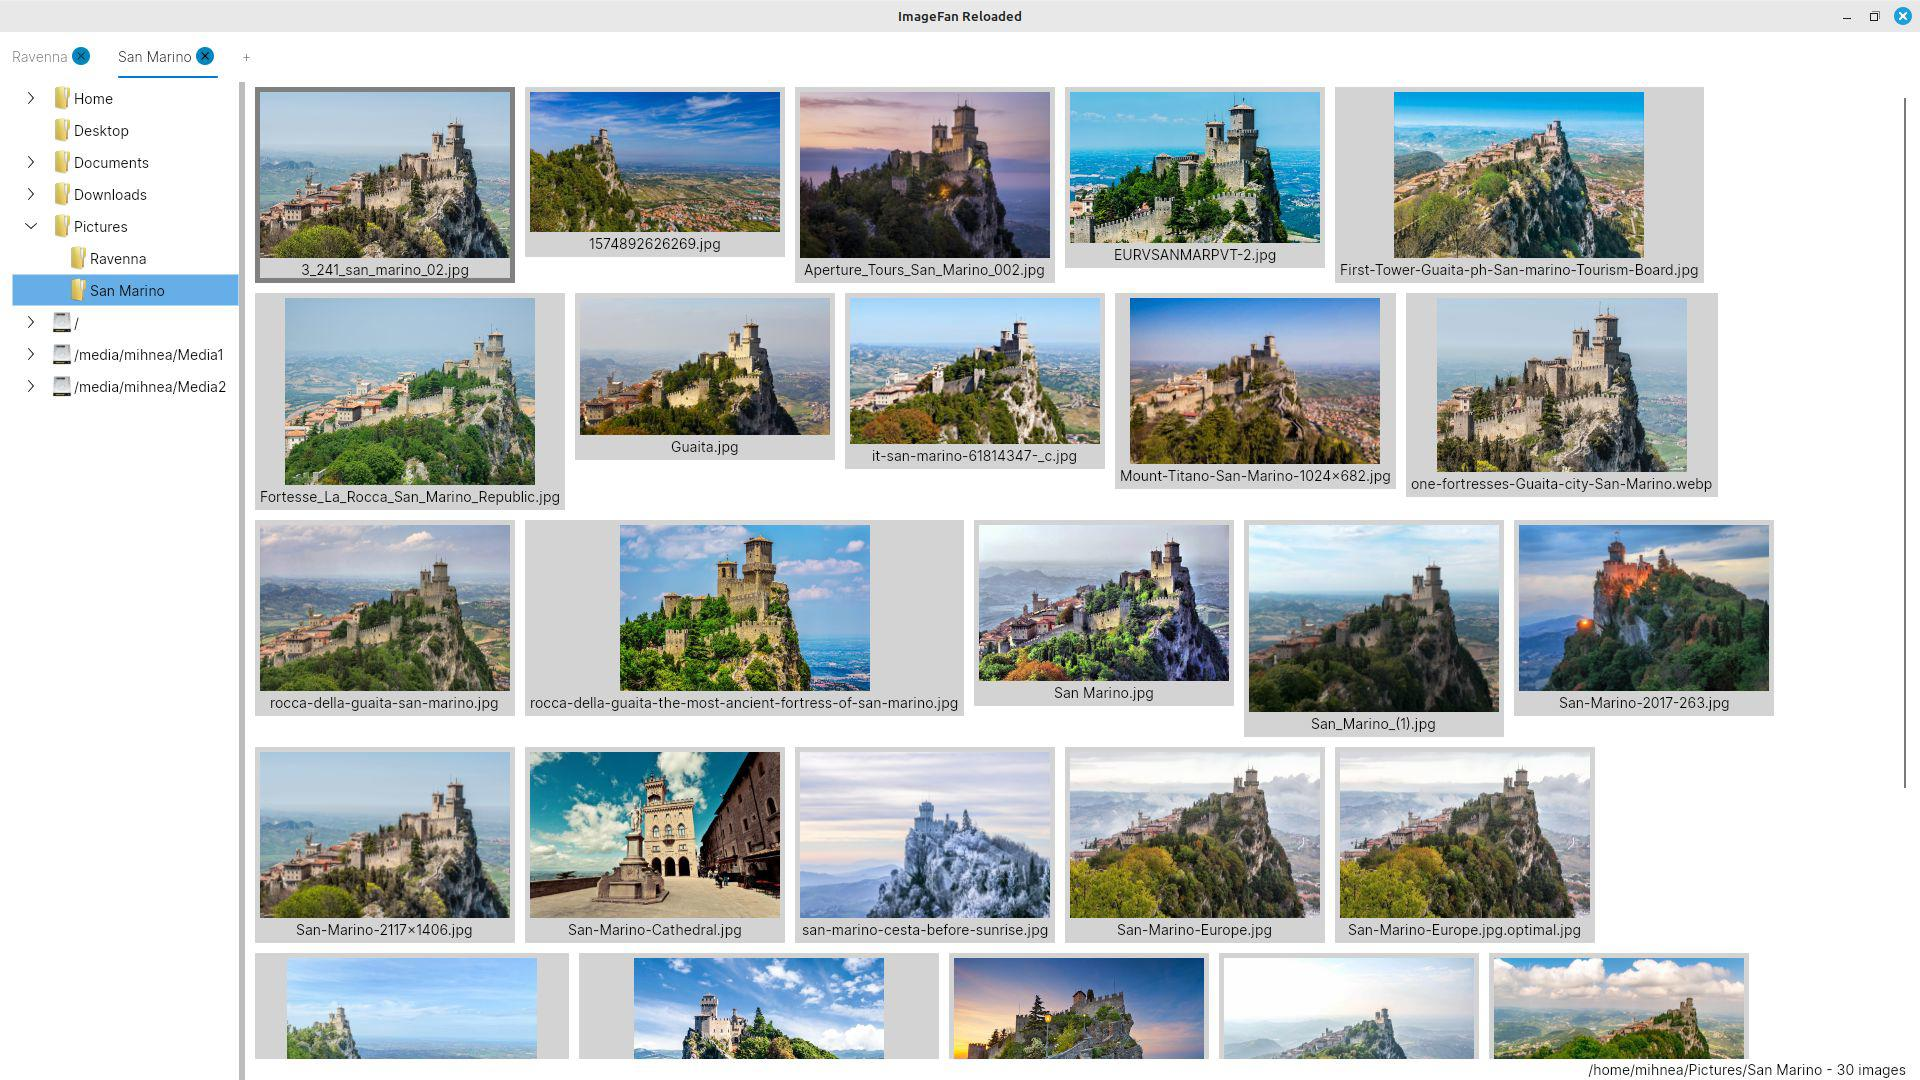
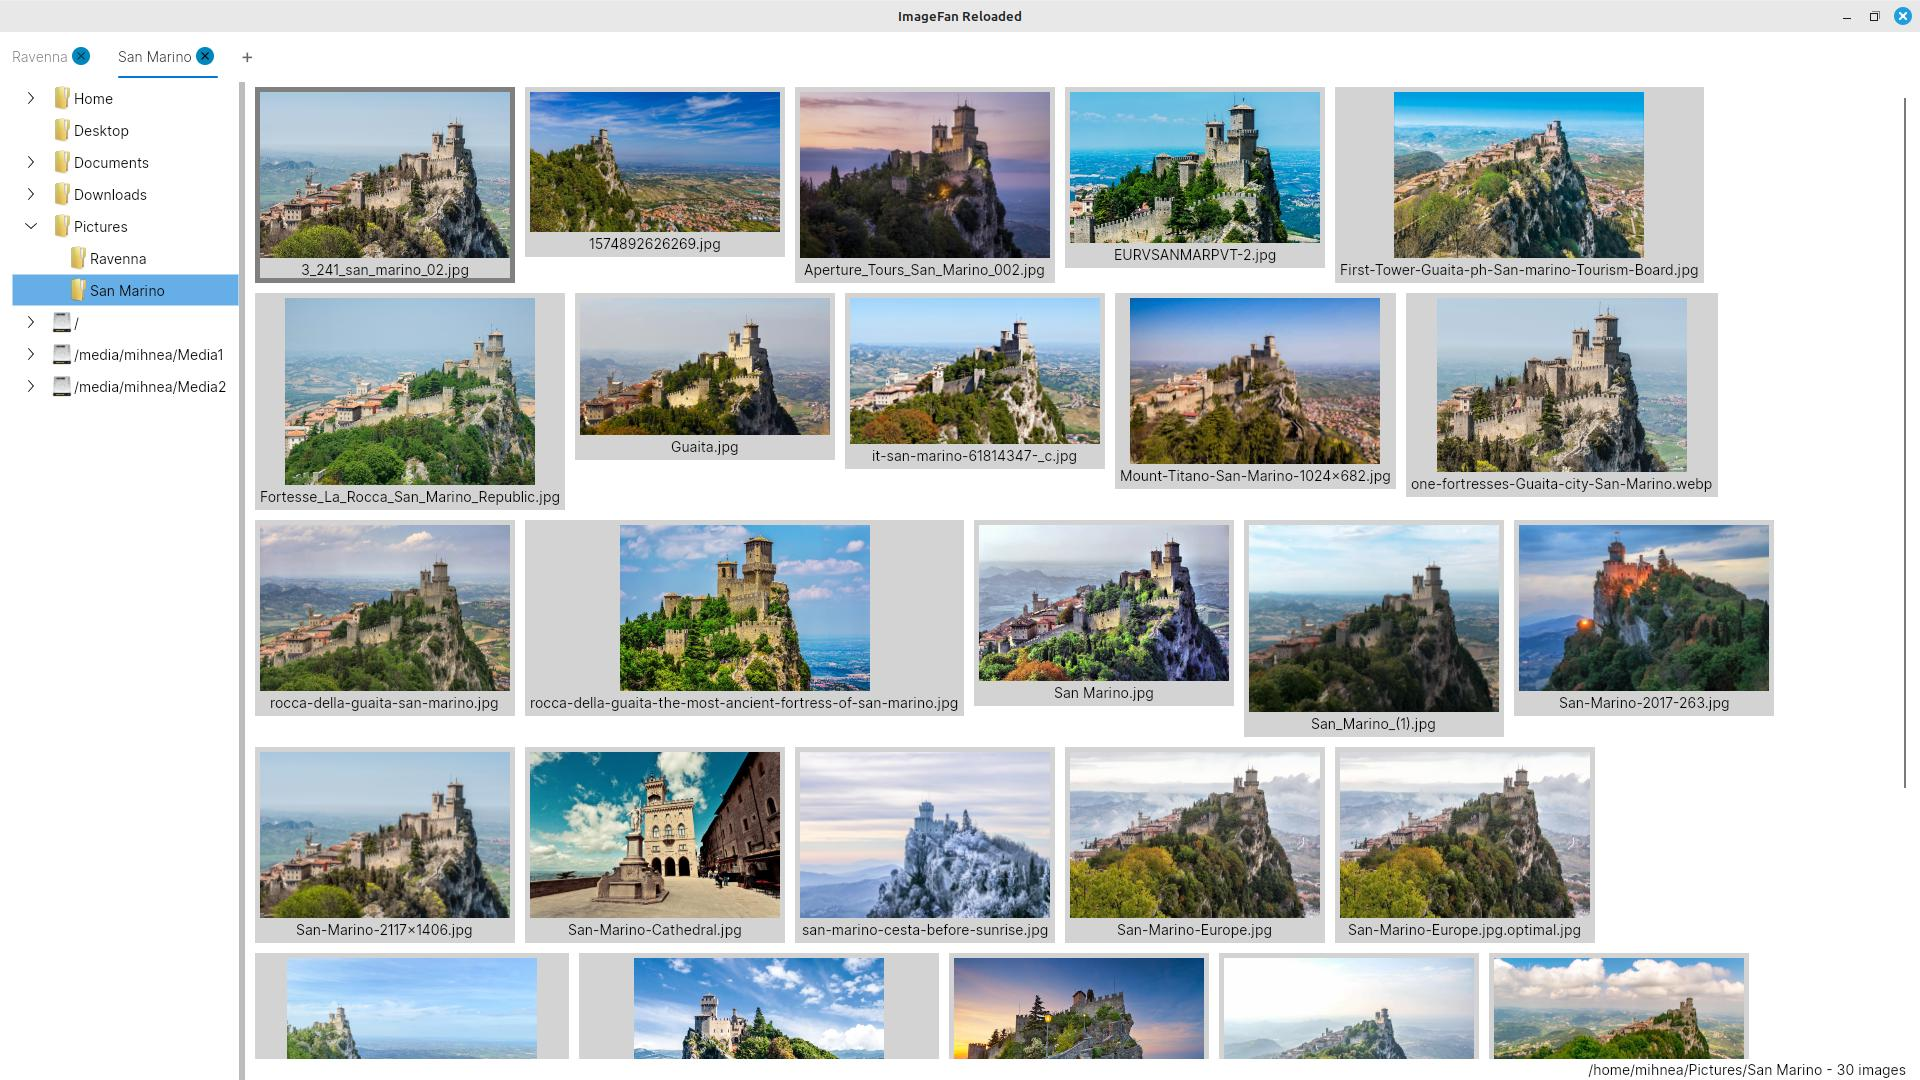
Improved new tab sign

Changed region(s): [[0.3438, 0.6111, 0.4062, 0.6417], [0.5625, 0.5806, 0.5938, 0.6111]]

diff --git a/ImageFanReloaded/Views/Implementation/MainWindow.axaml.cs b/ImageFanReloaded/Views/Implementation/MainWindow.axaml.cs
@@ -41,7 +41,7 @@ public partial class MainWindow : Window, IMainView
 	#region Private
 
 	private const string DefaultTabItemTitle = "New Tab";
-	private const string FakeTabItemTitle = "+";
+	private const string FakeTabItemTitle = "➕";
 
 	private readonly double _windowFontSize;
 
